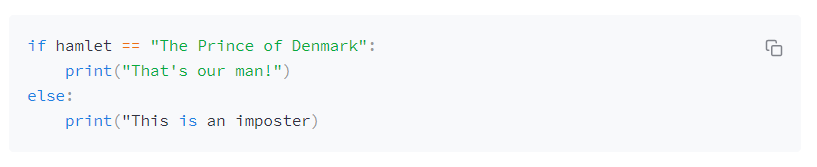
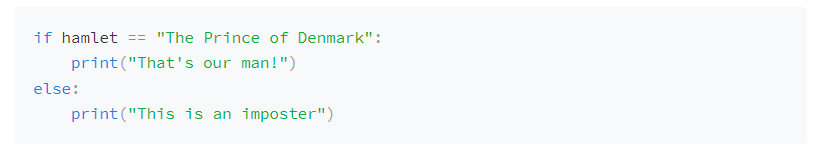
update

diff --git a/code/hamlet2.py b/code/hamlet2.py
@@ -17,4 +17,14 @@ st.write("""In the speech, Hamlet considers suicide, but considers that the
             alternative to his unhappy life might be even worse.""")
 
 
+
+st.code("""
+if hamlet == "The Prince of Denmark":
+    print("That's our man!")
+else:
+    print("This is an imposter")
+""")
+
+
 st.latex(" \int f^{-1}(x-x_a)\,dx")
+

diff --git a/StreamlitFromScratch1.md b/StreamlitFromScratch1.md
@@ -46,7 +46,7 @@ We need Python installed on our computer and, of course, Streamlit, too. We will
 
 One of the easiest ways of getting Python is to install the Anaconda distribution. Anaconda consists of a fairly up-to-date version of Python plus a whole bunch of libraries. It's a fairly big installation but by using Anaconda you will save yourself the trouble of having to manually install those libraries later. The main alternative is to install the official Python distribution from their website.
 
-The [Python](python.org) website always contains the latest version of Python. If you download [Anaconda](anaconda.com), you may not get the latest version. And that is not not a bad thing because you will be sure to get a version that works with all of the libraries that come with it. 
+The [Python](python.org) website always contains the latest version of Python. If you download [Anaconda](anaconda.com), you may not get the latest version. But that is not not a bad thing because, while it might not be the most up-to-date, you will be sure to get a version that works with all of the libraries that come with it. 
 
 When a new version of Python is released, it can sometimes take a while for the library distributions to catch up, so while installing from [python.org](python.org) will give you the latest version, the [Anaconda](anaconda.com) version may be the safest (although you can, of course, get older versions from [python.org](python.org), too).
 
@@ -70,14 +70,14 @@ When we run normal Python programs we issue the following command:
 python myprogram.py 	
 ````
 
-And IDEs such as VSCode and PyCharm assume this when running any Python programs. However, the command we need to run a Streamlit app is:
+And IDEs such as VSCode and PyCharm assume this when running Python programs. However, the command we need to run a Streamlit app is:
 
 ````
 # This how to run a Streamlit app
 streamlit run myprogram.py
 ````
 
-The consequence of this is that the standard 'Run' command in VSCode or PyCharm doesn't work. 
+The consequence of this is that the standard 'Run' command in VSCode or PyCharm doesn't work for Streamlit apps. 
 
 The easiest way around this is to type the correct command in a command window. This can be external to the editor, like the Anaconda prompt, or the built-in terminal window in your operating system. Alternatively, we can use a terminal window within the editor or IDE. In VSCode there is a Terminal menu option where you can open a new terminal
 
@@ -219,7 +219,7 @@ st.code("""
 if hamlet == "The Prince of Denmark":
     print("That's our man!")
 else:
-    print("This is an imposter)
+    print("This is an imposter")
 """)
 ````
 ![](https://github.com/alanjones2/streamlitfromscratch/raw/main/images/ScreenshotCodeBlock.png)
